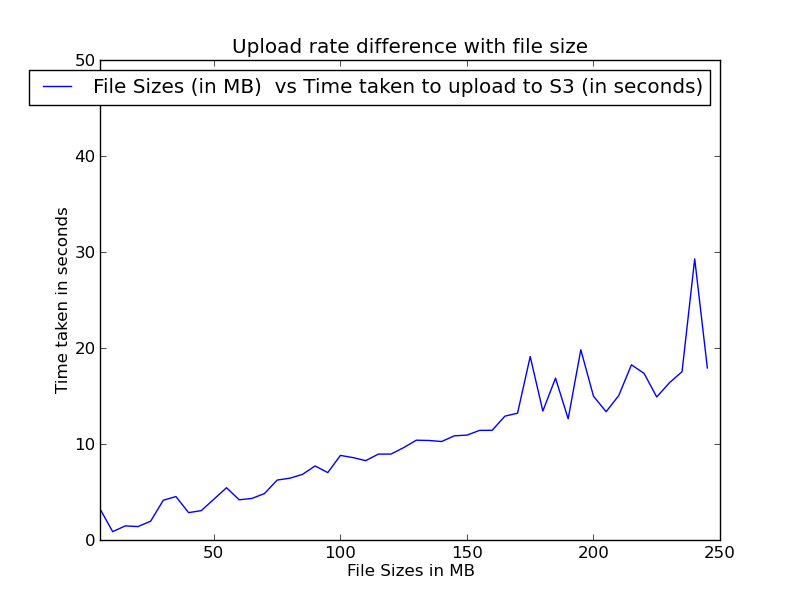
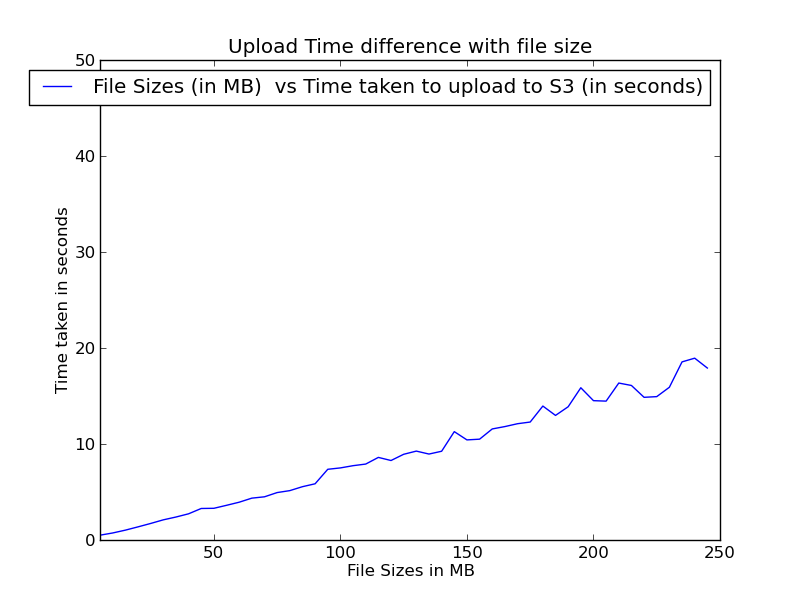
feat(Throughput): Added Throughput Benchmarks

diff --git a/S3_test.py b/S3_test.py
@@ -38,25 +38,41 @@ def filecreator():
     filenames= filenamegenerator()
     filesizes= filesizegenerator()
     actual_file_sizes = [filesize/(1024*1024) for filesize in filesizes]
-    for filename,filesize in zip(filenames,filesizes):
-        create_file(os.path.join(os.getcwd(),filename),filesize)
+    # for filename,filesize in zip(filenames,filesizes):
+        # create_file(os.path.join(os.getcwd(),filename),filesize)
+
+def get_throuhgput(actual_file_sizes,throughput_series):
+    plt.clf()
+    plt.plot(actual_file_sizes, throughput_series,label="File Sizes (in MB)  vs Throughput while uploading to S3 (in MB/s)")
+    plt.xlabel("File Sizes in MB")
+    plt.ylabel("Throughput in MB/s")
+    plt.title("Upload Throughput difference with file size")
+    plt.xlim(5, 250)
+    plt.ylim(0, 50)
+    plt.legend(loc="upper right")
+    plt.savefig("S3_throughput.png")
 
 def main():
     connection = S3Connection()
     time_taken_series = []
+    throughput_series = []
     filecreator()
     filesizes= filesizegenerator()
     actual_file_sizes = [filesize/(1024*1024) for filesize in filesizes]
     filenames = filenamegenerator()
     for filename in filenames:
         time_taken_series.append(S3checker(connection,filename))
+    for filesize,time in zip(actual_file_sizes,time_taken_series):
+        throughput_series.append(float(filesize/time))
+        print "Throughput was {0}".format(float(filesize/time))
     plt.plot(actual_file_sizes, time_taken_series,label="File Sizes (in MB)  vs Time taken to upload to S3 (in seconds)")
     plt.xlabel("File Sizes in MB")
     plt.ylabel("Time taken in seconds")
-    plt.title("Upload rate difference with file size")
+    plt.title("Upload Time difference with file size")
     plt.xlim(5, 250)
     plt.ylim(0, 50)
     plt.legend(loc="upper right")
     plt.savefig("S3_performance.png")
+    get_throuhgput(actual_file_sizes,throughput_series)
 if __name__ == '__main__':
     main()
